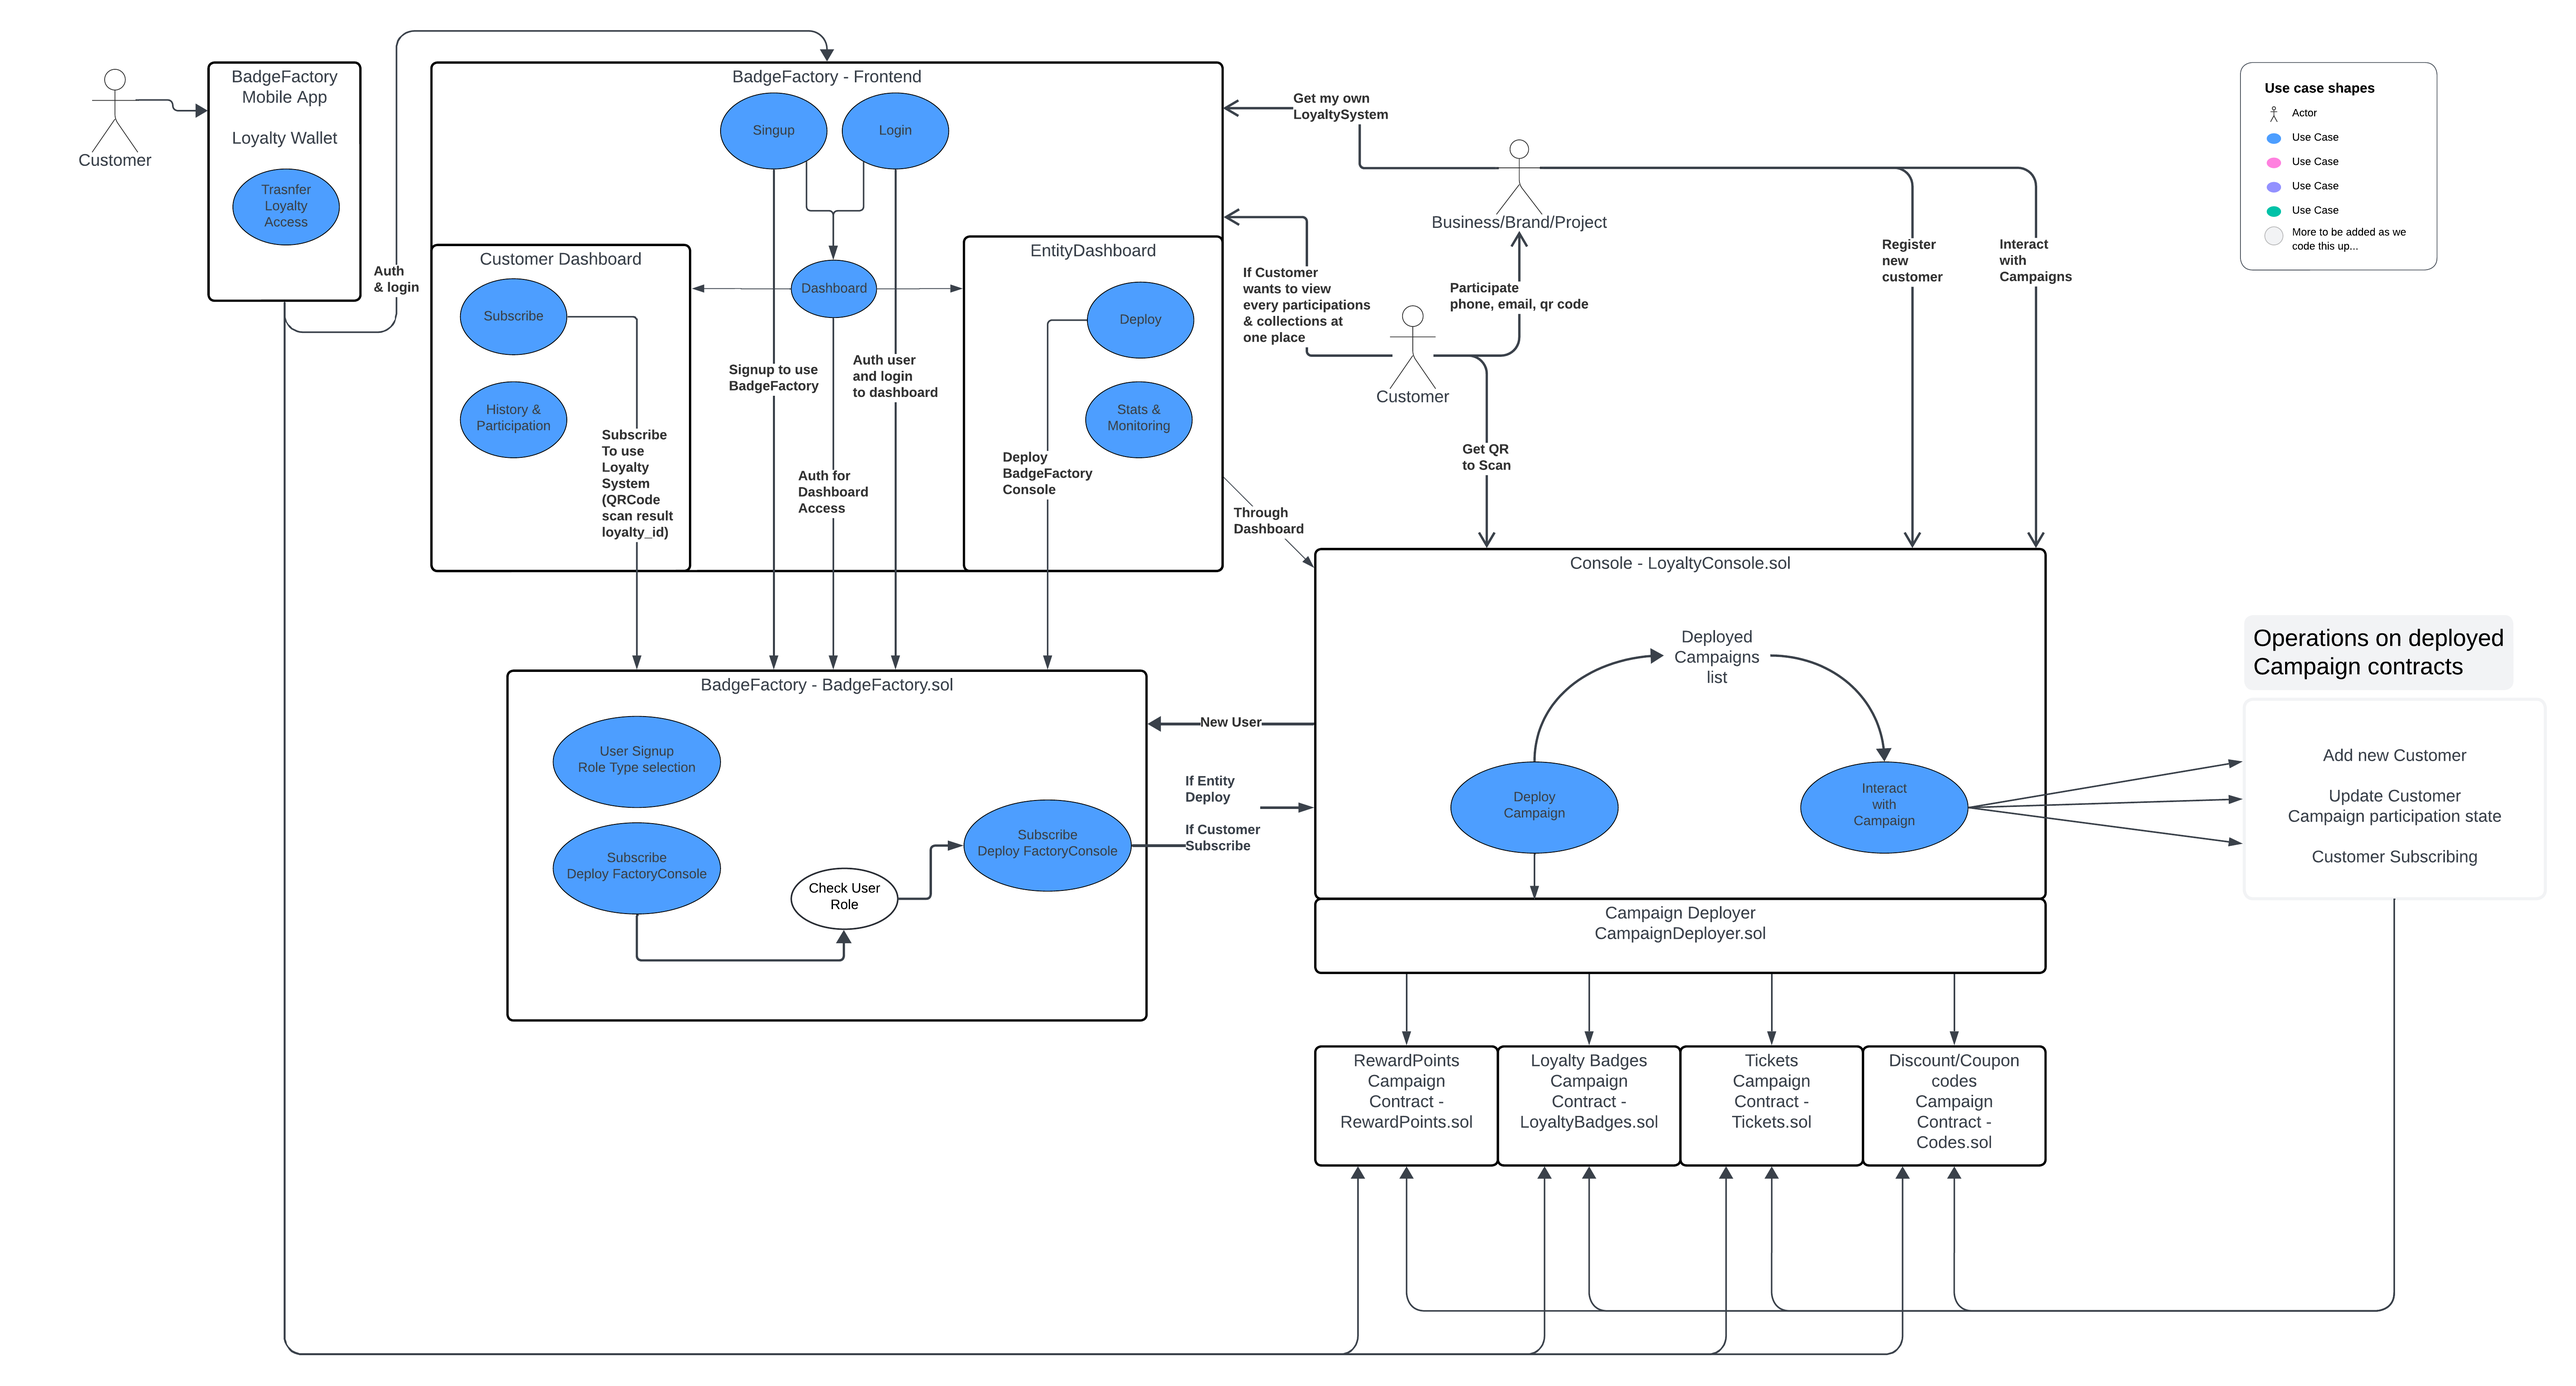
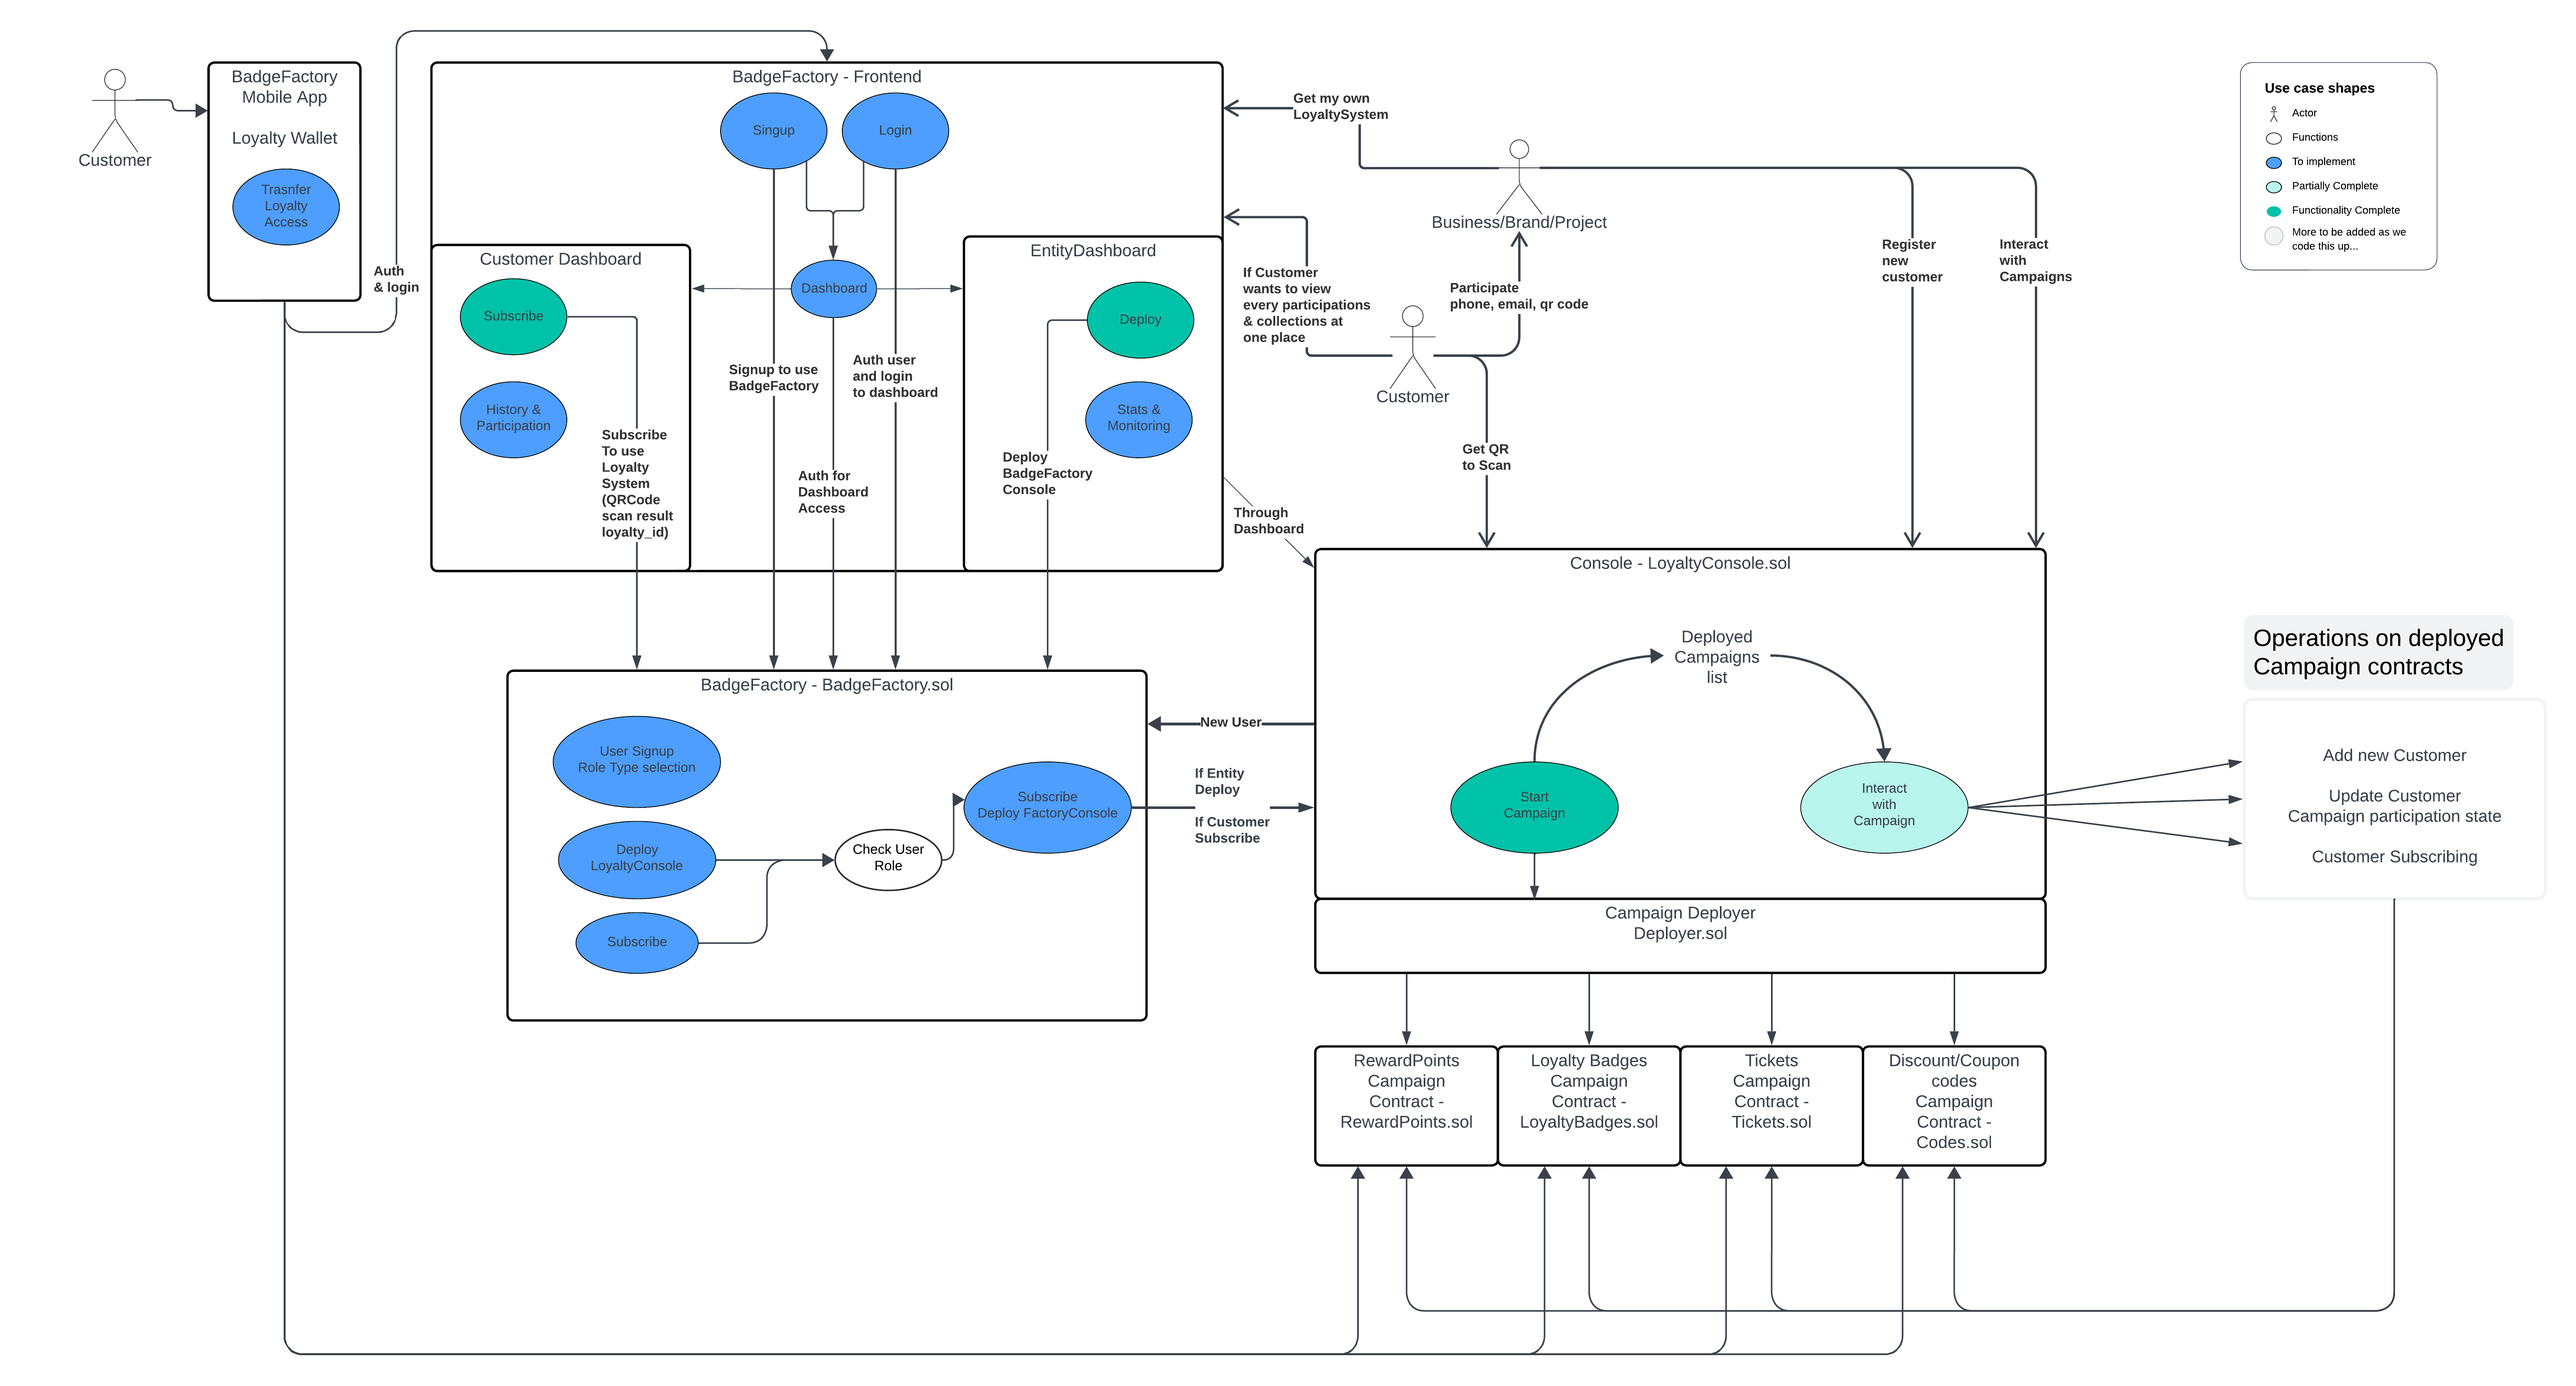
Update flow image, update readme

diff --git a/README.md b/README.md
@@ -4,9 +4,10 @@ BadgeFactory - A MorphL2 Sparkloom hackathon POC for the product
 
 Structure:
 
-1. BadgeFactory_SmartContracts - Smart contracts for MorphL2, Hardhat
-2. BadgeFactory_Dashboard - Deployment control panel for system users, Nextjs
-3. BadgeFactory_Mobile - Mobile app for customers to store their rewards/tickets/coupons and generate qr code to scan/verify to redeem/claim loyalty offers
+1. [BadgeFactory_SmartContracts](/BadgeFactory_SmartContracts/README.md) - Smart contracts for MorphL2, Hardhat
+2. [BadgeFactory_Dashboard](/BadgeFactory_Dashboard/README.md) - Deployment control panel for system users, Nextjs
+3. [BadgeFactory_Mobile](/BadgeFactory_Mobile/README.md) - Mobile app for customers to store their rewards/tickets/coupons and generate qr code to scan/verify to redeem/claim loyalty offers
+4. [BadgeFactory_Tools](/BadgeFactory_Tools/README.md) - BadgeFactory dev tools, expect to use if you're going to run all available unittests in /BadgeFactory_SmartContracts/
 
 This hackathon submission goal would be finished SmartContracts and some part of dashboard for easy access and visibility into whole vision of BadgeFactory.
 More will be added here as I progress on creating BadgeFactory for this hackathon (MorphL2 Sparkloom)
